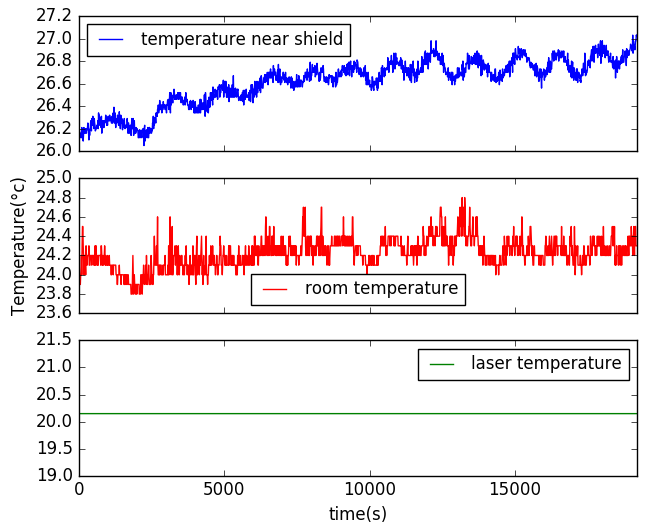
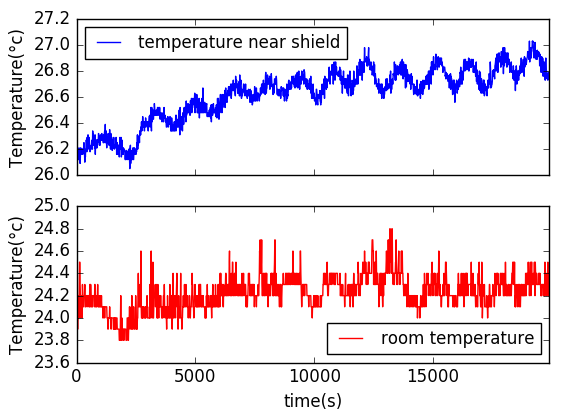
Changes by Moushumi until 20:17.

Changed region(s): [[0.0, 0.0, 1.0, 1.0]]

diff --git a/results.tex b/results.tex
@@ -226,30 +226,17 @@ Fig.~\ref{fig:pump-short} shows a more optimized the FID signal for
       deviation of each set of measurements is indicated in the
       respective figure.}\label{fig:different-pump-time}
 \end{figure}
-\begin{figure}%[h]
-  \centering\includegraphics[width=\linewidth]{figures/pump_time}
-  \caption{Histograms of measured B-field for different pump times,
-    {\bf for a measurement time of 200~s}. {\bf (a) is a pump time of
-      0.49~s (b) is a pump time of 0.39~s (c) is a pump time of 0.2~s
-      (d) is a pump time of 0.1~s.  The probe time in each case is
-      0.25~s.  The number of measurements taken in each case is
-      therefore (a) 405 (b) 468 (c) 666 (d) 857.  The standard
-      deviation of each set of measurements is indicated in the
-      respective figure.}\label{fig:differentpump-time}}
-\end{figure}
+
 
 In Fig.~\ref{fig:different-pump-time} a histogram of measured magnetic
 fields by making subsequent measurements over 100~s is shown for
-different pump times.  {\bf Which one is which? What is in the figure?
-  The longer pump time is 0.49~s (\ref{fig:different-pump-time}(a)) and the shorter one is 0.1~s (\ref{fig:different-pump-time}(d)).  What
-  is the probe time.  How many measurements appear in each graph?}
+different pump times.  
+  The longer pump time is 0.49~s (\ref{fig:different-pump-time}(a)) and the shorter one is 0.1~s (\ref{fig:different-pump-time}(d)). 
 
 From Fig.~\ref{fig:different-pump-time}, the pump time, when varied
 over this limited range, does not strongly affect the precision of the
-individual FID measurements.  {\bf However, it allows us to take
-  measurements faster(It is possible to take 287 measurement in 100 s
-  if cycle time is optimized to 0.35 s instead of 1 s.  How much
-  faster?  You need to say the times and/or how many measurements.}
+individual FID measurements.   However, it allows us to take
+  measurements faster because previously the duration for one FID measurement was 1~s while after optimization it only take 0.35~s. 
   
 
 It is not surprising that the precision does not change much because
@@ -398,15 +385,11 @@ measurement. During this measurement coil current has been changed by
 $\pm~ 0.001$~mA. As a result a field change of $\pm$ 50~pT 
 has been observed. The laser frequency was locked to Rb transition
 frequency and all other setting kept unchanged. During this study the
-magnetometer has been operated in FID mode {\bf list all documented
-  settings.  What was the lock-in time constant, lock-in frequency?
-  %lock-in frequency was 1950 Hz and time constant was 300 micro sec. AOM frequency 2049 hz, lock-in time constant 300\mu s.
-  % probe power ~ 22 $\mu$W and Pump power~ 40 $\mu$W
+magnetometer has been operated in FID mode 
+  lock-in frequency was 1950 Hz and time constant was 300 micro sec. AOM frequency 2049 hz, lock-in time constant 300$\mu$ s. The probe power was $\sim$ 22 $\mu$W and pump power~ 40 $\mu$W
+   
+ For field measurement the pump and probe time were set to 0.5 sec and 0.5 sec respectively.
   
-  Were both x and y data simultaneously fitted? %only x data was fitted
-  pump time?  probe
-  time?%pump and probe time are 0.5 sec and 0.5 sec respectively.
-  }.
 \begin{figure}%[h]
 \centering\includegraphics[width=0.7\linewidth]{figures/field_change_with_current}
   
@@ -430,7 +413,7 @@ region-3, the coil current has been reduced to 4.50000 mA {\bf sig figs?}
 and measured field for 300 s. After that the coil current has been
 decreased by 0.00100 mA. As a result the field also decreased by
 50~pT in this region.  Finally in region-5 the coil current has
- been set to 4.50000 mA again and observed the corresponing quick change in
+ been set to 4.50000 mA again and observed the corresponing a change in
 field.
 
 \section{Study the effect of room temperature in magnetic field} 
@@ -455,30 +438,19 @@ K-type.
 \end{figure}
 
 Fig.~\ref{fig:temperature-measurement} display the measured
-temperature vs time.  During the measurement the laser temperature
-(green line) remain unchanged which provide an indication about well
-controlled laser diode temperature.  It can be seen from the figure
+temperature vs time.    It can be seen from the figure
 that room temperature fluctuation is 1\degree while temperature
 outside of the magnetic shielding is about 0.8\degree.
 Fig.\ref{fig:field} shows the magnetic field {\bf state all
   magnetometer settings}
-  % probe power ~ 22 $\mu$W and Pump power~ 40 $\mu$W
-  % lock-in frequency 1929.5 hz and AOM frequency 2036 hz, lock-in time constant 300\mu s.
+  probe power ~ 22 $\mu$W and Pump power~ 40 $\mu$W
+  lock-in frequency 1929.5 hz and AOM frequency 2036 hz, lock-in time constant 300$\mu$ s.
   vs.~time while the temperature measurement
-has taken place. In order to understand the correlation between
-temperature change and field change, the measured field
-vs. temperature has shown in Fig.~\ref{fig:field_vs_temp}. {\bf What
+has taken place.  {\bf What
   was the data acquisition system for each device?  How were the data
   synchronized?% For room temperature measurement a precision thermometer was connected to a Agilent 34410A/11A 6 ½ Digit Multimeter. A python script was used to configures the multimeter for a 2-wire RTD measurement, triggers the meter, and then transfers the reading to the computer. And for temperature measurement near shield  the T-type thermocouple was connected with a Arduino Uno. For configuring this device and then transferring the reading to the computer a python script was used. 
-  }  It is clear from the graph that there is no obvious
-of field drift dependency on temperature.
+  }  .
   
-\begin{figure}%[h]
-\centering\includegraphics[width=0.6\linewidth]{figures/field_vs_temp.png}
-\caption{Field vs. temperature\label{fig:field_vs_temp}}
-\end{figure}
- 
-   
 \section{Degaussing studies\label{sec:degaussing}}
 
 \subsection{Initial tests using the magnetometer near zero field}
@@ -688,15 +660,9 @@ magnetic field environment became even more unstable.
     \centering
     \includegraphics[width=\textwidth]{figures/before_degaussing}
     \caption{}
-    \label{fig:without DG}
+    \label{fig:with DG_innermost}
   \end{subfigure}
   \hfill
-  \begin{subfigure}[b]{0.47\textwidth}
-    \centering
-    \includegraphics[width=\textwidth]{figures/innermost_degaussing.png}
-    \caption{}
-    \label{fig:with_DG_innermost}
-  \end{subfigure}
   \begin{subfigure}[b]{0.45\textwidth}
     \centering
     \includegraphics[width=\textwidth]{figures/after_degaussing}
@@ -704,8 +670,8 @@ magnetic field environment became even more unstable.
     \label{fig:with DG}
   \end{subfigure}
   \caption{Magnetic field recorded over 3 hours. (a) The stability of
-    magnetic field without performing any degaussing. A downward field
-    drift of about 45 pT was observed in this case.(b) Magnetic field as a function of time after degaussing the innermost shield. Still the field drift is about 30 pT.  (c) Magnetic field
+    magnetic field with performing degaussing the innermost shield. A downward field
+    drift of about 45 pT was observed in this case.  (b) Magnetic field
     stability after degaussing the 2nd innermost layer of magnetic
     shielding. Only a couple pT field drift has observed in this case. During this study the signal amplitude was pretty
     low($\sim$3V) because of the low pump beam power(I think) or other poor settings. As a result the precession width becomes wider(10~pT)
@@ -713,22 +679,19 @@ magnetic field environment became even more unstable.
     \label{fig:effect of DG}}
 \end{figure}
 
-Fig.~\ref{fig:without DG} shows about 50~pT drift in magnetic field in
-4000~s.  In order to cancel background field inside shield degaussing
-innermost layer of mu-metal is done but it doesn't help to solve field
-drift problem (\ref{fig:with_DG_innermost}){\bf where is this data?}. During those three measurement {\bf which
-  study? the one ``without performing any degaussing'' as written in
-  the figure caption, or after degaussing the innermost shield?}  the
+Fig.~\ref{fig:with DG} shows about 50~pT drift in magnetic field in
+4000~s. Although before start taking field measurement degaussing
+innermost layer of mu-metal is done multiple times in order to cancel background field inside the shield  but still the  field
+drift problem can be seen. Then degaussing the 2nd innermost layer of
+shield is done which solve the field drift problem (see Fig \ref{fig:with DG}). During those two measurement the
 lock-in reference frequency is set to 1938.5~Hz and lock-in time
-constant is 300~$\mu$s.  Then degaussing the 2nd innermost layer of
-shield is done which solve the field drift problem (see Fig \ref{fig:with DG}){\bf where is this
-  data?  Is this (b)?}% yes.
+constant is 300~$\mu$s. 
 
 Since the end cap of the innermost shield layer is not in use some
 background field leaked into 2nd layer which was causing the drift in
 field. So by degaussing the 2nd layer of shield canceled background
 field and field becomes so stable (Fig.~\ref{fig:with DG}). During this
-three measurement all other setting remain unchanged only the degaussing
+these two measurement all other setting remain unchanged only the degaussing
 of the 1st and 2nd innermost shield has performed.
    
 %   \end{itemize}
@@ -771,10 +734,13 @@ amplitude reduces due to frequency detuning.
 Fig~ \ref{fig:effect of tuning} shows the effect of laser tuning on
 coherence lifetime. During this measurement the AOM frequency was set
 to 2.068~kHz and Lock-in frequency was 1.950~kHz.  For proper {\bf
-  what does ``proper'' mean?  How proper is proper?}  laser tuning the
+  what does ``proper'' mean?  How proper is proper?} 
+  % proper tuning means I mean laser frequency is set close to the wings of the absorption minima and also adjust to get higher signal amplitude.
+  laser tuning the
 observed coherence time is 68 ms (Fig \ref{fig:good tuning}) whereas
 for bad tuning {\bf what does ``bad'' mean in this case?  How bad is
-  bad?}  coherence time reduces to 59 ms (Fig \ref{fig:bad
+  bad?} % a rough estimate of about couple hundred GHz detuning from the wings of the absorption minima.
+  coherence time reduces to 59 ms (Fig \ref{fig:bad
   tuning}). On a fundamental level, the magnetometer actually measures
 the energy splitting between the Zeeman sublevels of the atomic ground
 state due to the magnetic field. The linewidth of such a spectroscopic
@@ -817,8 +783,7 @@ done carefully.
     error bar is increasing.  Strangely, you do not mention this.}. As
   a result laser tuning moved due to mode hoping which causes the
   drift {\bf I have never seen any evidence of this.  What is the
-    evidence?}. The current laser locking system only works perfectly
-  for maximum 4 hours {\bf Please show the data that proves this}. The
+    evidence?}. The
   possible reason for this mode hoping is the Polarizing beam
   splitting cube of our DAVLL system~\cite{principles}. The
   disadvantage of using this type of PBS is that they show flaky

diff --git a/magnetometry.tex b/magnetometry.tex
@@ -153,7 +153,7 @@ once and afterwards the decaying processes (damped oscillation) of the coherence
 observed (similar to NMR). The sensitivity depends on the $T_2$ time, which is the decay time
 of the macroscopic polarization moment.
 
-NMOR based atomic magnetometer can also be operated in self-oscillation mode\cite{PhysRevA.62.043403}. In this mode, the output signal
+NMOR based atomic magnetometer can also be operated in self-oscillation mode \cite{PhysRevA.62.043403}\cite{}. In this mode, the output signal
 of photodiode is fed back to AOM for amplitude modulation. In this
 case the output signal of polarimeter is modified to act as a square
 wave which drives the AOM directly. After setting the phase and gain
